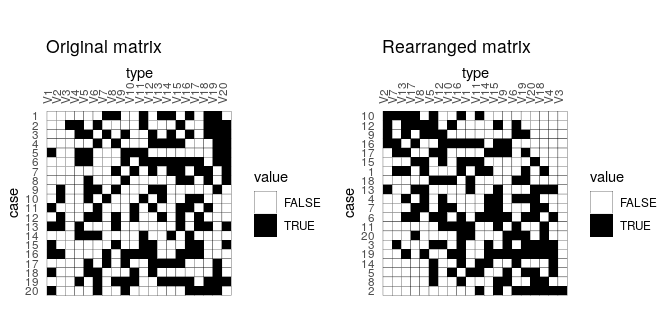
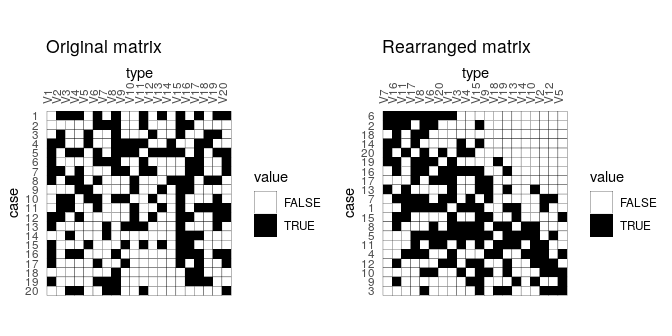
Knit README

diff --git a/README.md b/README.md
@@ -7,12 +7,12 @@
 tabula <img width=120px src="man/figures/logo.svg" align="right" />
 ===================================================================
 
-[![Build Status](https://travis-ci.org/nfrerebeau/tabula.svg?branch=master)](https://travis-ci.org/nfrerebeau/tabula) [![CRAN\_Status\_Badge](http://www.r-pkg.org/badges/version/tabula)](https://cran.r-project.org/package=tabula) [![lifecycle](https://img.shields.io/badge/lifecycle-experimental-orange.svg)](https://www.tidyverse.org/lifecycle/#experimental) [![DOI](https://zenodo.org/badge/DOI/10.5281/zenodo.1489944.svg)](https://doi.org/10.5281/zenodo.1489944)
+[![Build Status](https://travis-ci.org/nfrerebeau/tabula.svg?branch=master)](https://travis-ci.org/nfrerebeau/tabula) [![GitHub Release](https://img.shields.io/github/release/nfrerebeau/tabula.svg)](https://github.com/nfrerebeau/tabula/releases) [![CRAN Version](http://www.r-pkg.org/badges/version/tabula)](https://cran.r-project.org/package=tabula) [![CRAN Downloads](http://cranlogs.r-pkg.org/badges/grand-total/tabula)](https://cran.r-project.org/package=tabula) [![lifecycle](https://img.shields.io/badge/lifecycle-experimental-orange.svg)](https://www.tidyverse.org/lifecycle/#experimental) [![DOI](https://zenodo.org/badge/DOI/10.5281/zenodo.1489944.svg)](https://doi.org/10.5281/zenodo.1489944)
 
 Overview
 --------
 
-`tabula` provides an easy way to examine archaeological count data (artifacts, faunal remains, etc.). This package includes several measures of diversity, e.g. richness, rarefaction, diversity, turnover, similarity, etc. It also provides matrix seriation methods for chronological modeling and dating. The package make it easy to visualize count data and statistical thresholds: rank/abundance plots, Ford and Bertin diagrams, etc.
+`tabula` provides an easy way to examine archaeological count data (artifacts, faunal remains, etc.). This package includes several measures of diversity (e.g. richness, rarefaction, diversity, turnover, similarity, etc.) discussed in Magurran (1988) and others. It also provides matrix seriation methods for chronological modeling and dating. The package make it easy to visualize count data and statistical thresholds: rank/abundance plots, Ford (1972) and Bertin (1977) diagrams, etc.
 
 Installation
 ------------
@@ -42,7 +42,7 @@ Usage
     -   `IncidenceMatrix` represents presence/absence data.
     -   `OccurrenceMatrix` represents a co-occurence matrix.
 
-It assumes that you keep your data tidy: each variable (taxa) must be saved in its own column and each observation (case) must be saved in its own row.
+It assumes that you keep your data tidy: each variable (type/taxa) must be saved in its own column and each observation (sample/case) must be saved in its own row.
 
 These new classes are of simple use, on the same way as the base `matrix`:
 
@@ -90,7 +90,7 @@ count <- as(compiegne, "CountMatrix")
 #### Sample richness
 
 ``` r
-richness(count, method = c("margalef", "menhinick", "berger"), simplify = TRUE)
+richness(count, method = c("margalef", "menhinick"), simplify = TRUE)
 #>   margalef  menhinick
 #> 5 1.176699 0.07933617
 #> 4 1.323459 0.07568907
@@ -147,12 +147,12 @@ turnover(count, method = c("whittaker", "cody", "routledge1",
 
 ``` r
 similarity(count, method = "morisita")
-#>   5         4         3         2         1
-#> 5 1 0.9162972 0.7575411 0.6670201 0.6286479
-#> 4 1 1.0000000 0.8879556 0.7964064 0.7106784
-#> 3 1 1.0000000 1.0000000 0.8251501 0.6637747
-#> 2 1 1.0000000 1.0000000 1.0000000 0.9224228
-#> 1 1 1.0000000 1.0000000 1.0000000 1.0000000
+#>           5         4         3         2         1
+#> 5 1.0000000 0.9162972 0.7575411 0.6670201 0.6286479
+#> 4 0.9162972 1.0000000 0.8879556 0.7964064 0.7106784
+#> 3 0.7575411 0.8879556 1.0000000 0.8251501 0.6637747
+#> 2 0.6670201 0.7964064 0.8251501 1.0000000 0.9224228
+#> 1 0.6286479 0.7106784 0.6637747 0.9224228 1.0000000
 ```
 
 ### Seriation
@@ -166,8 +166,8 @@ incidence <- IncidenceMatrix(data = sample(0:1, 400, TRUE, c(0.6, 0.4)),
 # Correspondance analysis-based seriation
 (indices <- seriate(incidence, method = "correspondance", margin = c(1, 2)))
 #> Permutation order for matrix seriation: 
-#>    Row order: 10 12 9 16 17 15 1 18 13 4 7 6 11 20 3 19 14 5 8 2 
-#>    Column order: 2 7 13 17 8 5 12 10 16 1 11 14 15 9 6 19 20 18 4 3 
+#>    Row order: 6 2 18 14 20 19 16 17 13 7 1 15 8 5 11 4 12 10 9 3 
+#>    Column order: 7 16 11 17 8 6 20 1 3 4 15 9 18 19 13 14 10 2 12 5 
 #>    Method: correspondance
 ```
 
@@ -224,6 +224,6 @@ plotRank(count, log = "xy")
 
 ![](man/figures/README-rank-1.png)
 
-[1] Desachy, B. (2004). Le sériographe EPPM : un outil informatisé de sériation graphique pour tableaux de comptages. *Revue archéologique de Picardie*, 3(1), 39–56. DOI: [10.3406/pica.2004.2396](https://doi.org/10.3406/pica.2004.2396)
+[1] Desachy, B. (2004). Le sériographe EPPM : un outil informatisé de sériation graphique pour tableaux de comptages. *Revue archéologique de Picardie*, 3(1), 39-56. DOI: [10.3406/pica.2004.2396](https://doi.org/10.3406/pica.2004.2396).
 
 [2] Adapted from Dan Gopstein's original [spot matrix](https://dgopstein.github.io/articles/spot-matrix/).
